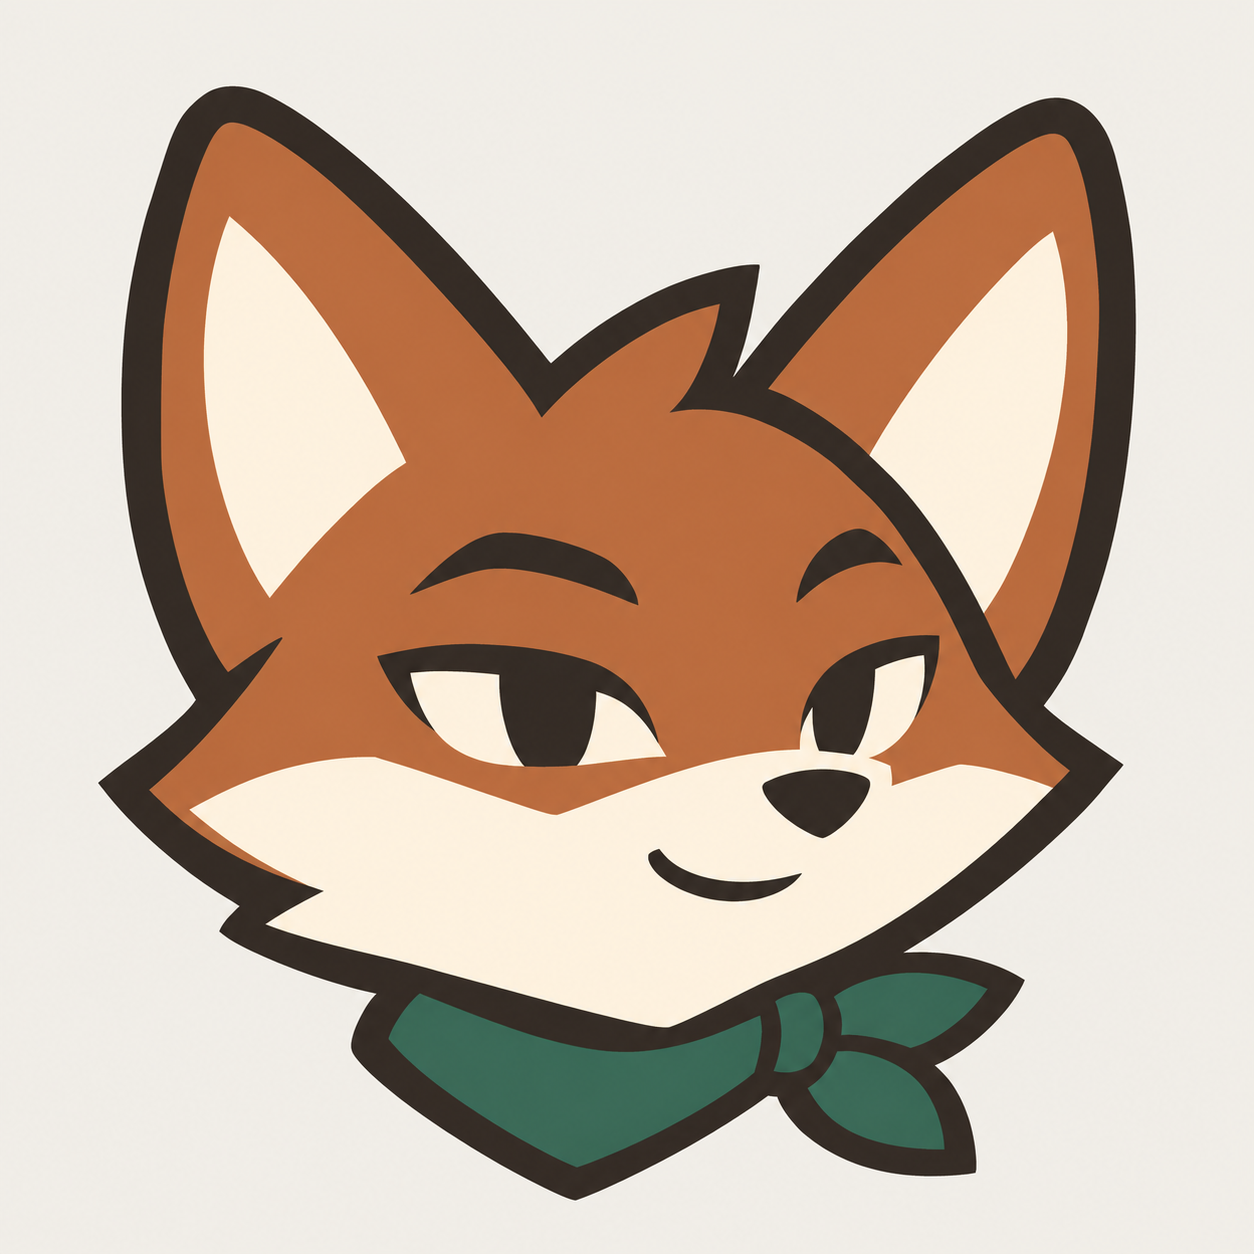
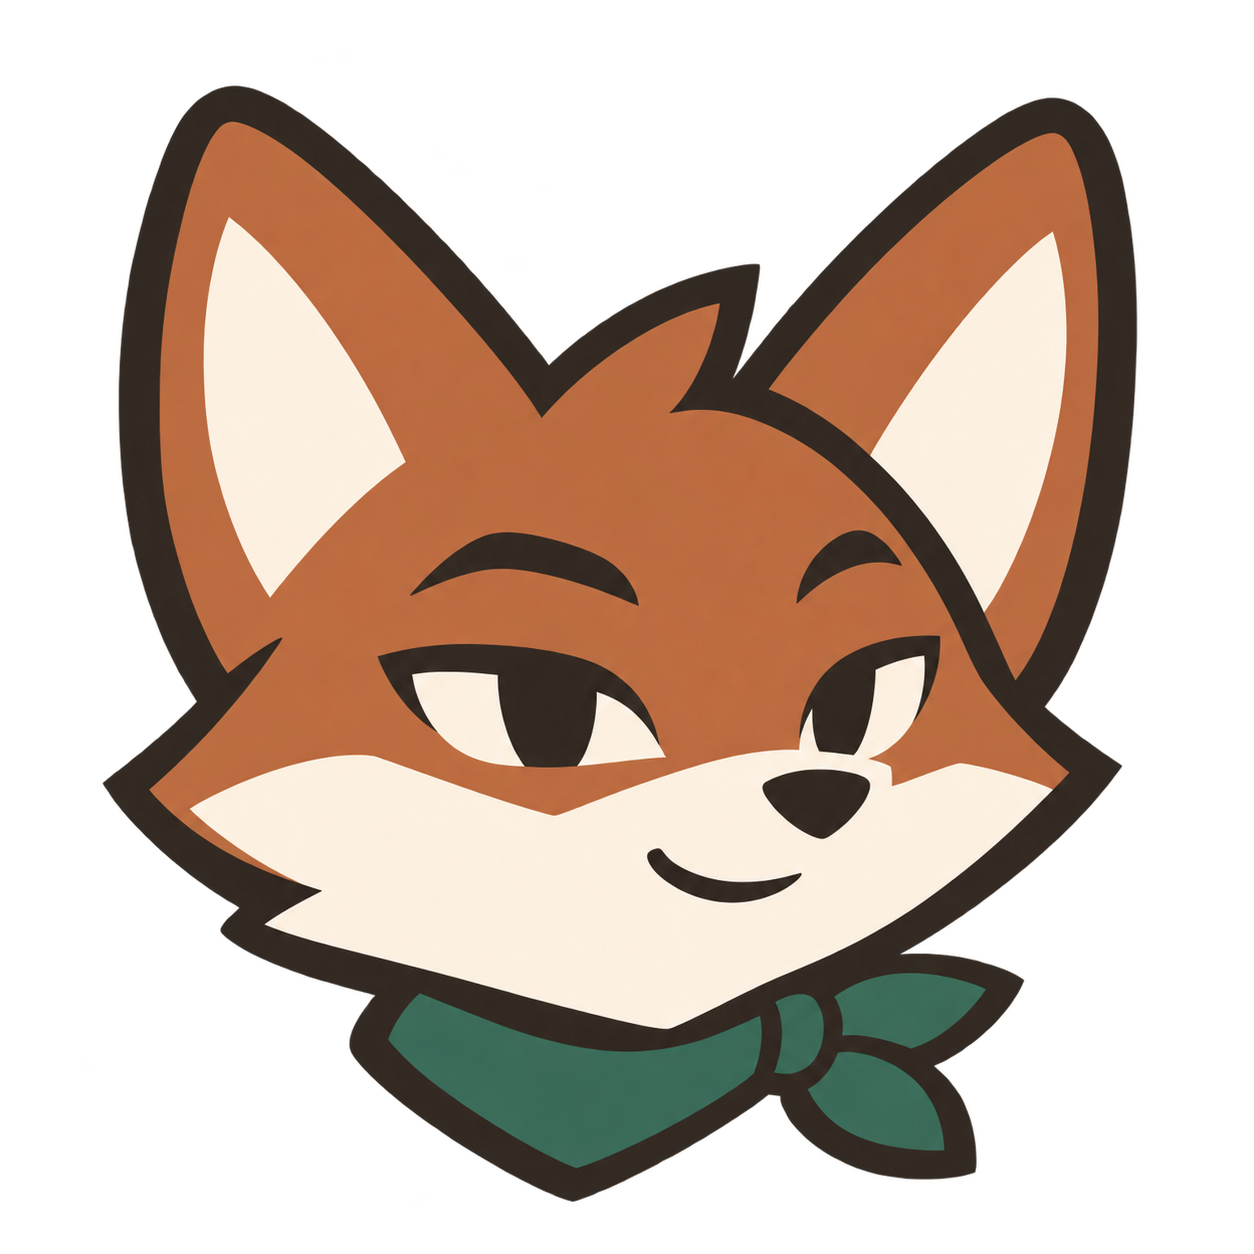
chore(s-atlas): 使用透明小狐图标并修正宿主展示字段

diff --git a/README.md b/README.md
@@ -1,5 +1,5 @@
 <p align="center">
-  <img src="plugins/s-atlas/icon-fox.png" width="128" alt="s-atlas" />
+  <img src="plugins/s-atlas/icon-fox.png?v=1.0.3" width="128" alt="s-atlas" />
 </p>
 
 <h1 align="center">s-atlas</h1>
@@ -8,7 +8,7 @@
 
 <p align="center">先磨方案、再写计划、按计划做、审查后收尾；排错讲证据，改动要验证。<br />支持 Codex、Claude Code、Cursor、WorkBuddy。</p>
 
-<p align="center">当前版本 1.0.2，共 <strong>82</strong> 个技能：59 个按描述自动选用，23 个需点名调用。</p>
+<p align="center">当前版本 1.0.3，共 <strong>82</strong> 个技能：59 个按描述自动选用，23 个需点名调用。</p>
 
 <p align="center">
   <a href="#安装">安装</a> ·

diff --git a/docs/architecture.md b/docs/architecture.md
@@ -2,7 +2,7 @@
 
 s-atlas 是一套由代理读取的技能与本地工具，不是独立运行的 Agent 服务。Codex、Claude Code、Cursor、WorkBuddy 提供会话和执行能力；本仓库提供技能描述、任务流程、宿主适配和确定性的配置工具。
 
-当前版本 **1.0.2**，共 **82** 个技能：**59** 个可按描述自动选用，**23** 个保持显式调用。自动选用描述的是调用政策，不保证每轮必然触发。
+当前版本 **1.0.3**，共 **82** 个技能：**59** 个可按描述自动选用，**23** 个保持显式调用。自动选用描述的是调用政策，不保证每轮必然触发。
 
 ![s-atlas 全景卡片图：任务路由与 82 个技能](s-skills-route.png)
 
